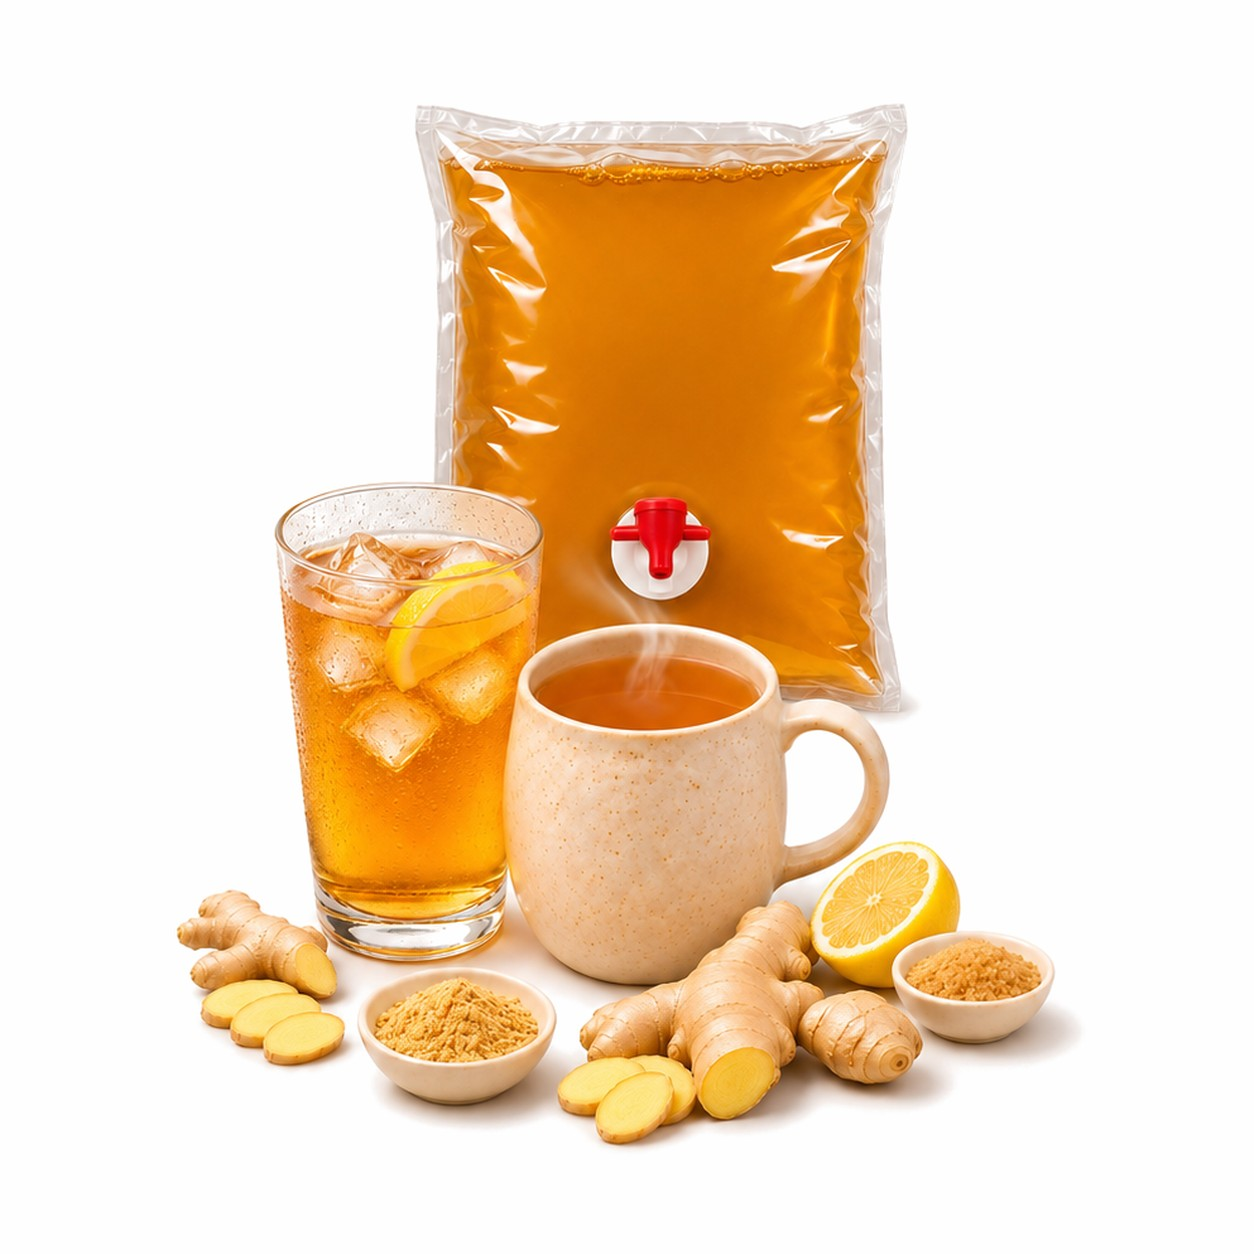
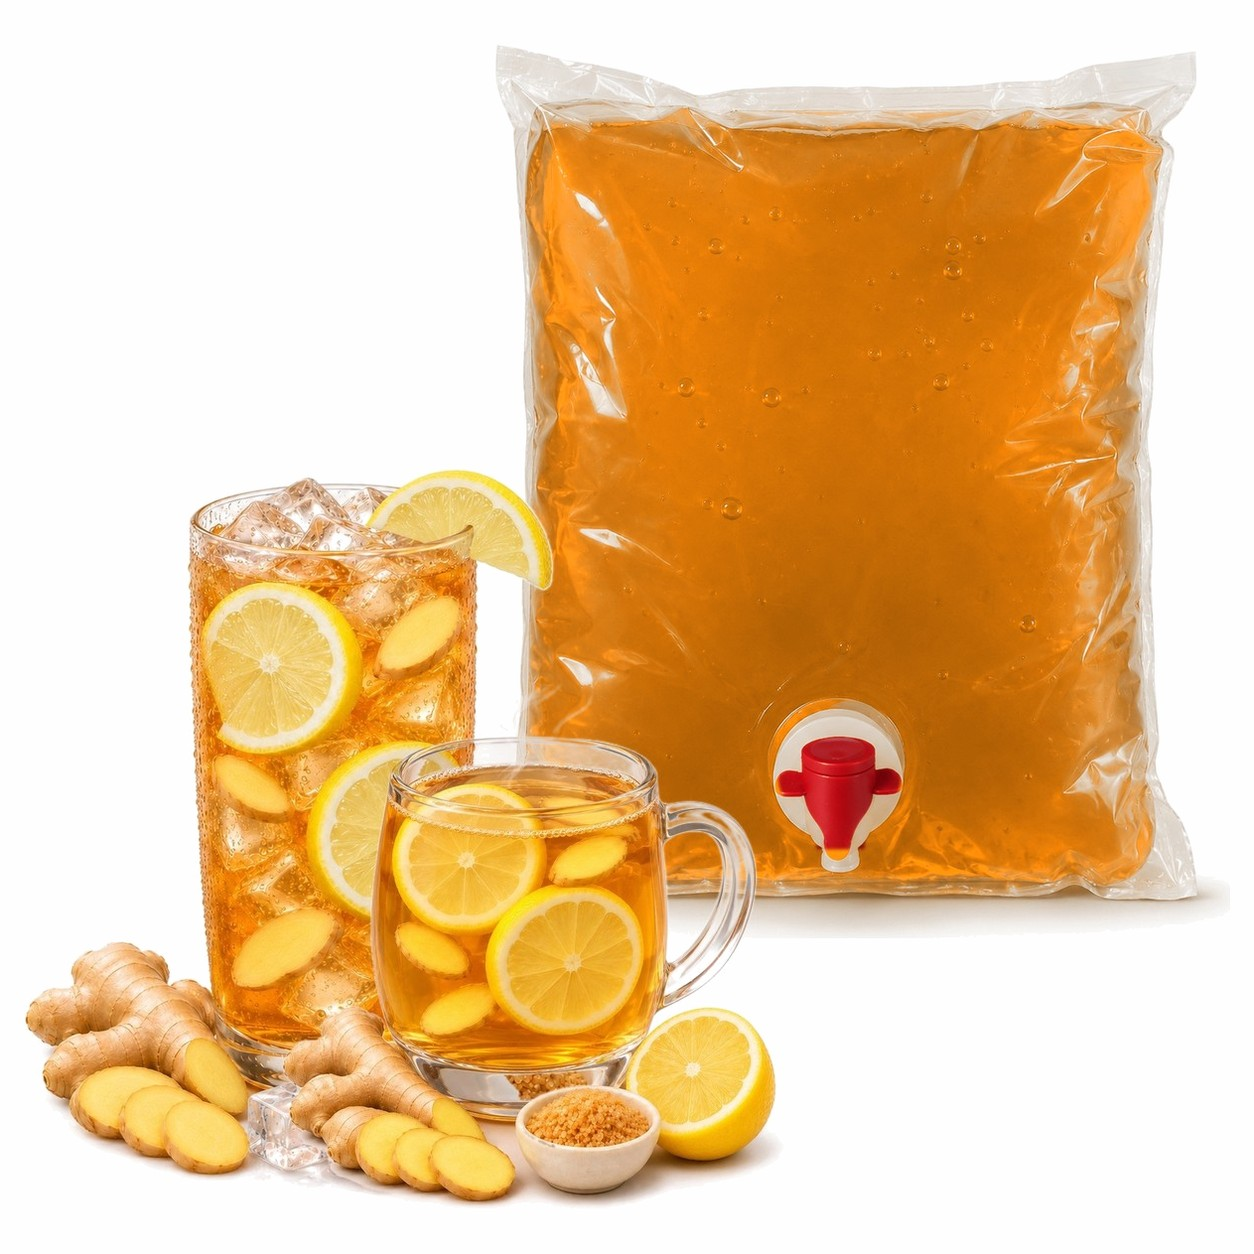
E-shop: nové fotky Zázvorového sirupu (#202)
Claude-Session: https://claude.ai/code/session_016QL8fyP6fDGx2RMwKgd8AU

diff --git a/dashboard/lib/eshop/productImages.ts b/dashboard/lib/eshop/productImages.ts
@@ -46,6 +46,9 @@ const BACKDROP: Record<string, string> = {
   "/eshop/sirupy/zazvorovy-sirup-hlavni.jpg": "#fefefe",
   "/eshop/sirupy/zazvorovy-sirup-sacek.jpg": "#fefefe",
   "/eshop/sirupy/zazvorovy-sirup-doypack.jpg": "#fefefe",
+  "/eshop/sirupy/zazvorovy-sirup-hlavni-v2.jpg": "#fefefe",
+  "/eshop/sirupy/zazvorovy-sirup-sacek-v2.jpg": "#fefefe",
+  "/eshop/sirupy/zazvorovy-sirup-doypack-v2.jpg": "#fefefe",
   "/eshop/sirupy/lipovy-sirup-hlavni.jpg": "#fefefe",
   "/eshop/sirupy/lipovy-sirup-sacek.jpg": "#fefefe",
   "/eshop/sirupy/lipovy-sirup-doypack.jpg": "#fefefe",
